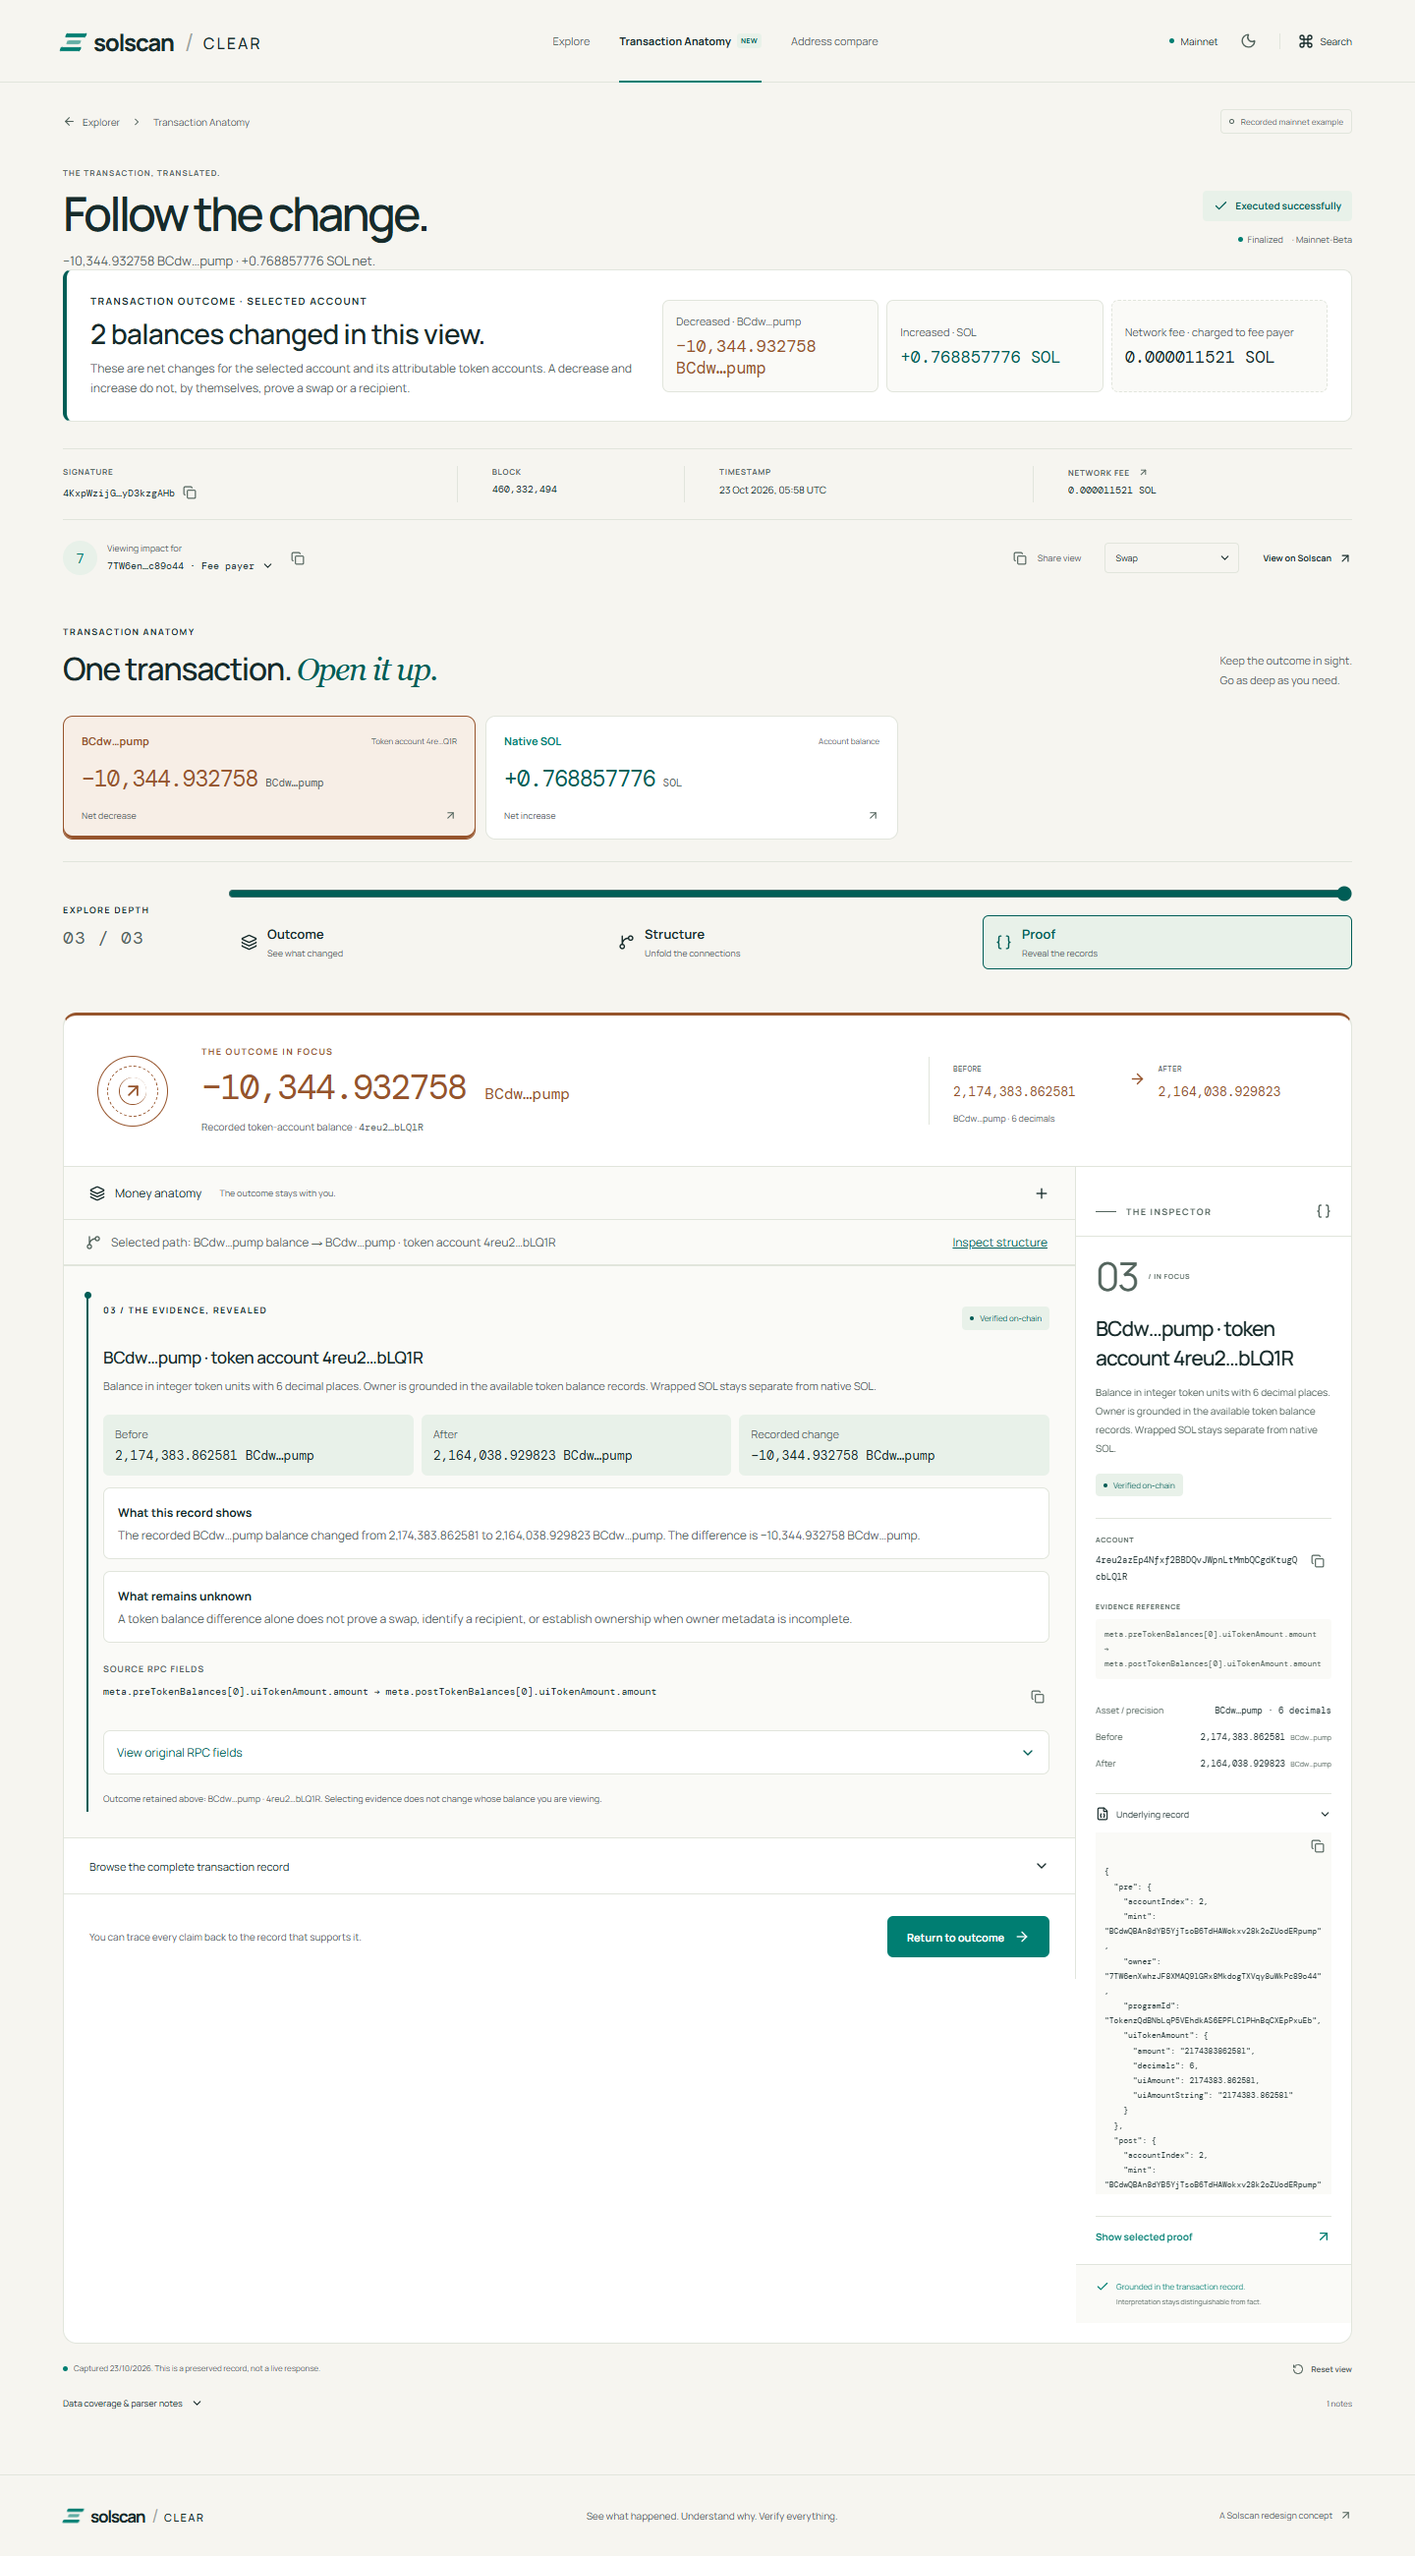
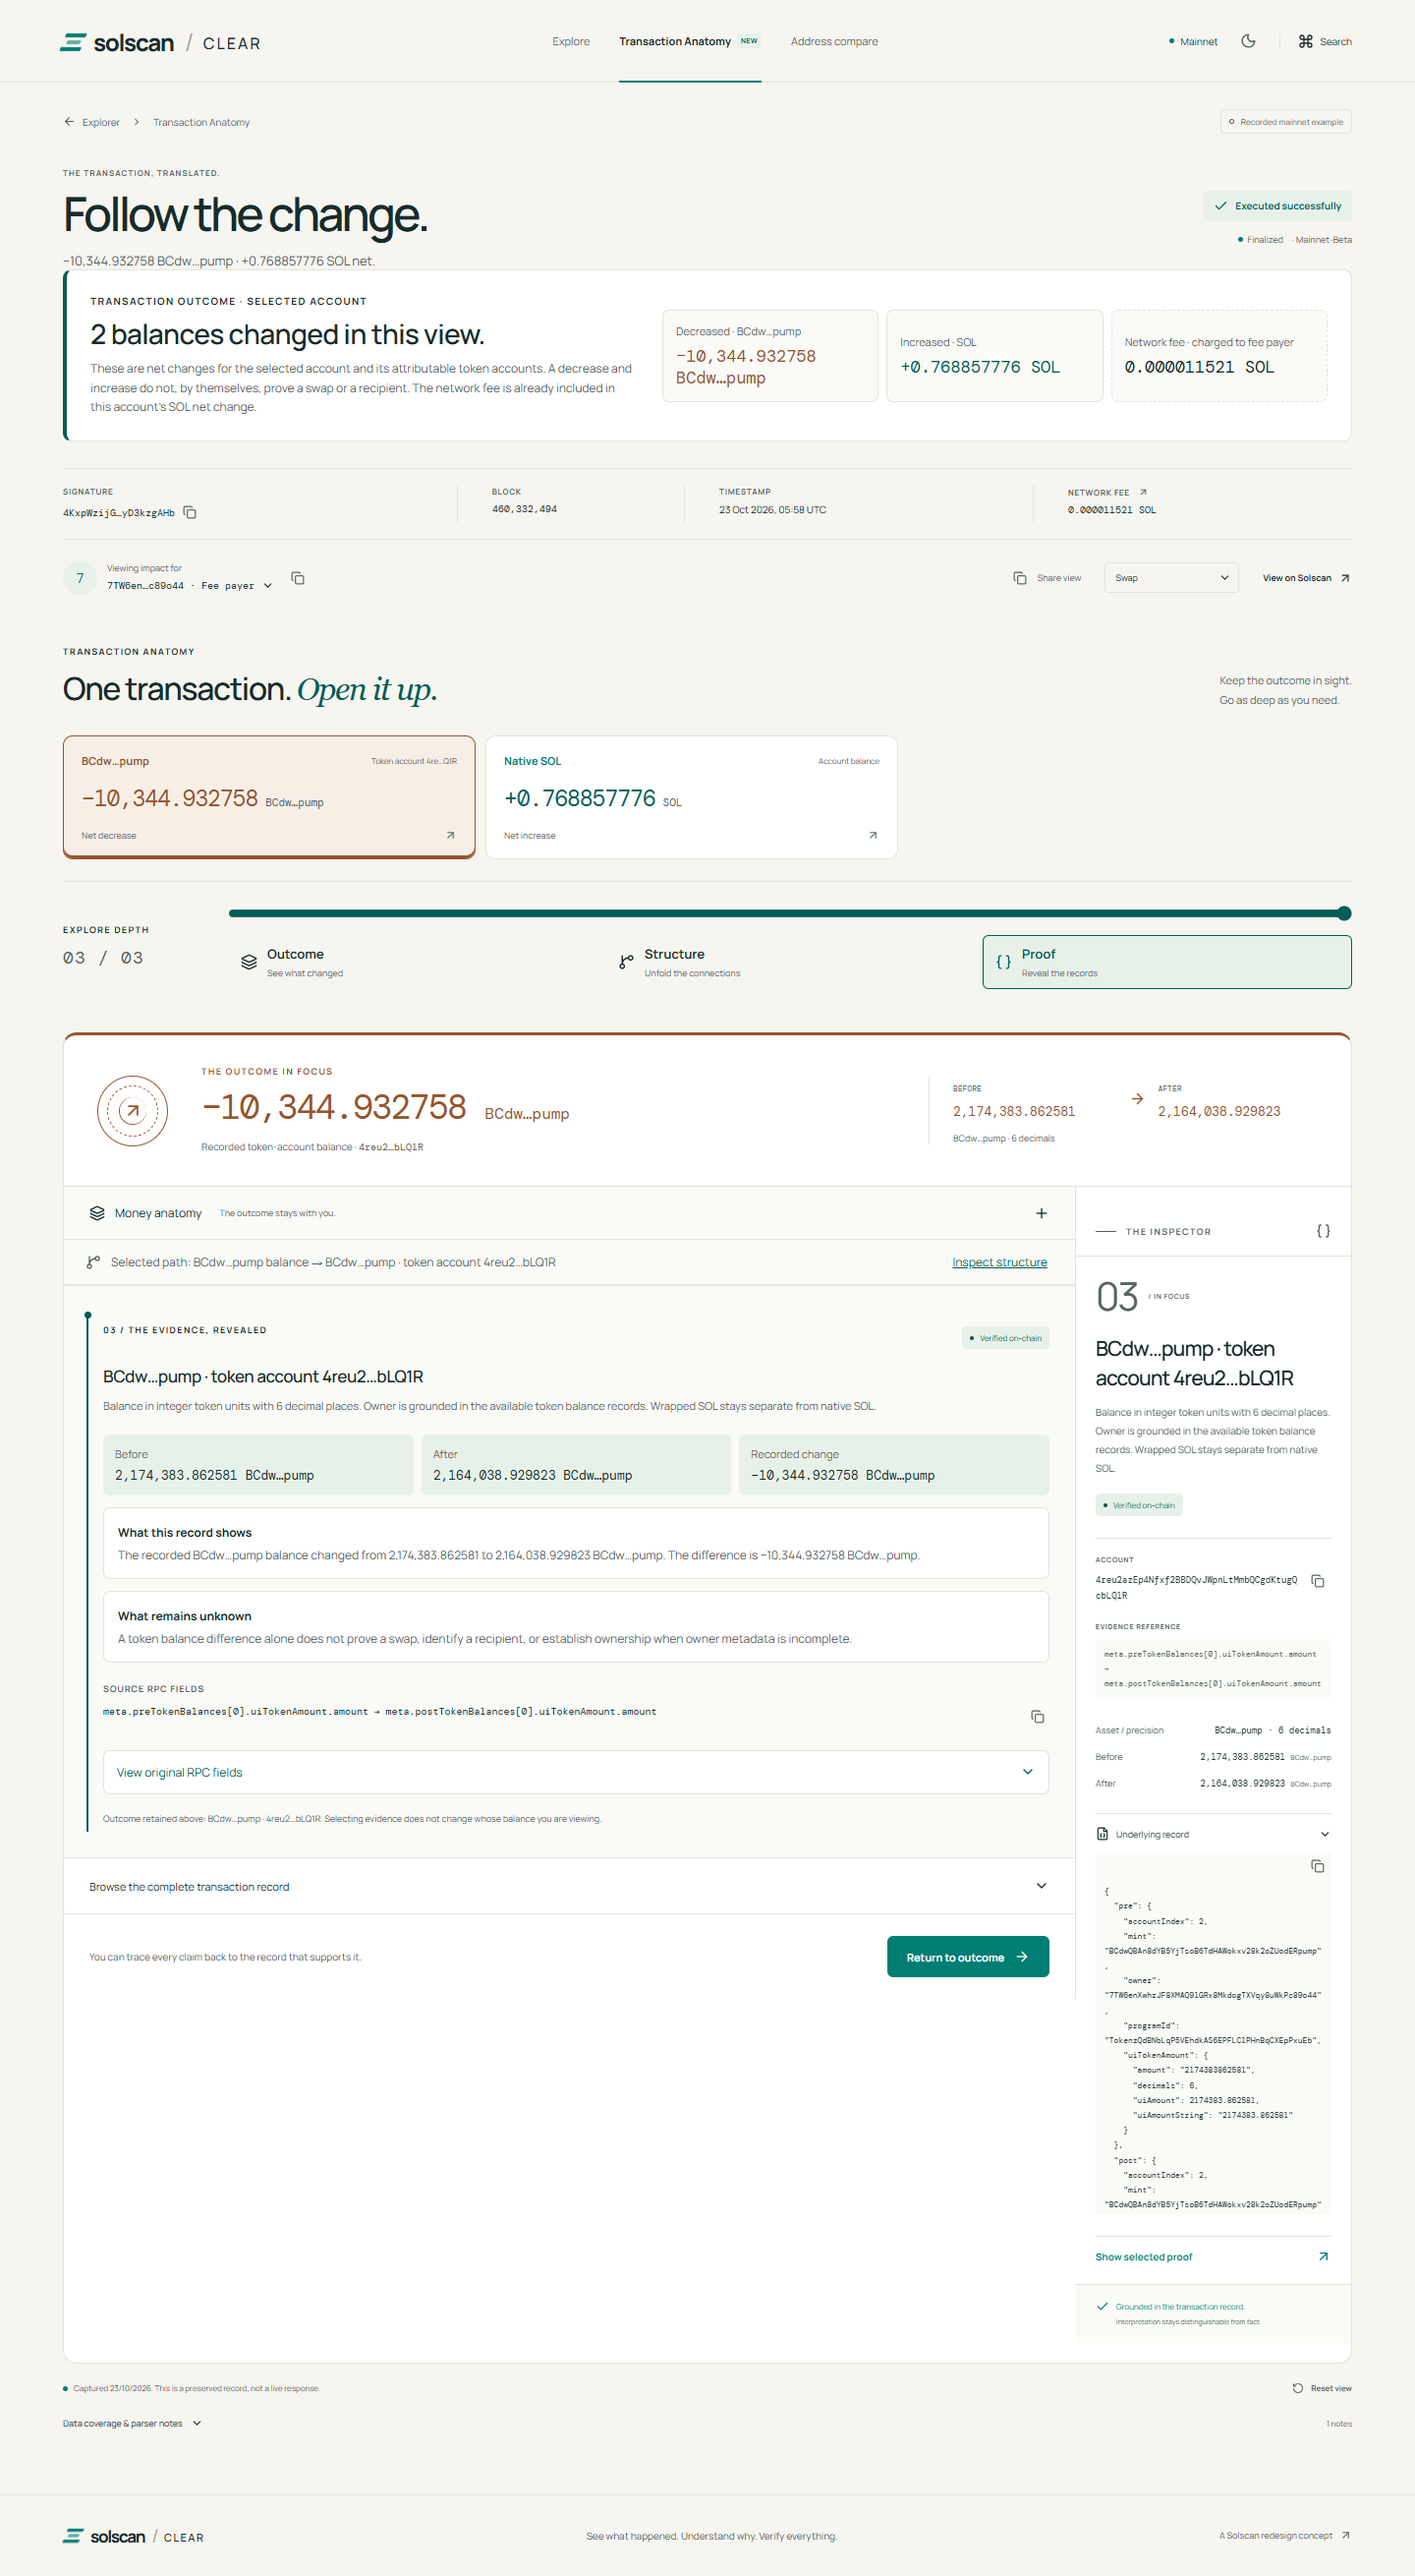
Keep full balance scale proportional and add mobile relationship paths

diff --git a/components/relationship-canvas.tsx b/components/relationship-canvas.tsx
@@ -370,6 +370,47 @@ export function RelationshipCanvas({
             </button>
           </div>
         </div>
+        <div
+          className="mobile-relationship-paths"
+          aria-label="Expandable relationship paths"
+        >
+          <p>Follow a recorded path</p>
+          {edges.length ? (
+            edges.map((edge) => (
+              <details key={edge.id}>
+                <summary>
+                  <span>
+                    {short(edge.from, 4)} → {short(edge.to, 4)}
+                  </span>
+                  <small>
+                    {edge.kind === "movement"
+                      ? "Asset movement"
+                      : edge.kind === "invocation"
+                        ? "Program invocation"
+                        : "Account reference"}
+                  </small>
+                </summary>
+                <p>
+                  {edge.label}
+                  {edge.attempted ? " · attempted, not committed" : ""}
+                </p>
+                <button
+                  className="text-link"
+                  onClick={() => onEvidence(edge.evidenceId)}
+                >
+                  Inspect supporting instruction <ArrowUpRight size={14} />
+                </button>
+              </details>
+            ))
+          ) : (
+            <p>
+              No supported{" "}
+              {mode === "money" ? "asset movements" : "relationships"} connect
+              these focused accounts. Try Full context or inspect the complete
+              records.
+            </p>
+          )}
+        </div>
         <div className="mobile-map-list">
           {visibleNodes.map((node, i) => (
             <button

diff --git a/app/ux-improvements.css b/app/ux-improvements.css
@@ -254,6 +254,12 @@
 .waterfall-scroll-cue {
   display: none;
 }
+.waterfall-bar {
+  min-height: 0;
+}
+.mobile-relationship-paths {
+  display: none;
+}
 .case-study-entry {
   margin: 28px 0;
   padding: 30px;
@@ -294,6 +300,42 @@
   color: var(--muted);
 }
 @media (max-width: 700px) {
+  .mobile-relationship-paths {
+    display: grid;
+    gap: 8px;
+    margin: 16px 0;
+  }
+  .mobile-relationship-paths > p {
+    color: var(--muted);
+    font-size: 14px;
+    line-height: 1.6;
+  }
+  .mobile-relationship-paths details {
+    border: 1px solid var(--line);
+    padding: 12px;
+    border-radius: 6px;
+  }
+  .mobile-relationship-paths summary {
+    cursor: pointer;
+    font-size: 14px;
+  }
+  .mobile-relationship-paths summary small {
+    display: block;
+    margin-top: 6px;
+    font-size: 12px;
+    color: var(--muted);
+  }
+  .mobile-relationship-paths details p {
+    font-size: 14px;
+    line-height: 1.6;
+  }
+  .mobile-relationship-paths button {
+    min-height: 44px;
+  }
+  .anatomy-structure .mobile-map-list {
+    max-height: 260px;
+    overflow-y: auto;
+  }
   .transaction-outcome-header {
     grid-template-columns: 1fr;
     gap: 15px;

diff --git a/tests/e2e/anatomy.spec.ts b/tests/e2e/anatomy.spec.ts
@@ -108,6 +108,18 @@ test("clicking a counterparty can change perspective and independently recompute
   page,
 }, info) => {
   await page.goto("/tx/demo-design-transfer?layer=connections");
+  if (info.project.name === "mobile") {
+    await page
+      .locator(".mobile-relationship-paths details summary")
+      .first()
+      .click();
+    await expect(
+      page
+        .locator(".mobile-relationship-paths")
+        .getByRole("button", { name: "Inspect supporting instruction" })
+        .first(),
+    ).toBeVisible();
+  }
   const nodes =
     info.project.name === "mobile" ? ".mobile-map-list" : ".graph-transform";
   await page
@@ -166,7 +178,7 @@ test("unknown balances remain explicit and tiny fees stay readable at narrow wid
   await expect(fee).toContainText("−0.000005");
   expect(
     (await fee.locator(".waterfall-bar").boundingBox())!.height,
-  ).toBeGreaterThanOrEqual(3);
+  ).toBeLessThan(3);
   expect(
     await page.evaluate(
       () => document.documentElement.scrollWidth <= innerWidth,

diff --git a/components/impact-canvas.tsx b/components/impact-canvas.tsx
@@ -289,7 +289,7 @@ export function ImpactCanvas({
       <div className="money-footnote">
         <p>
           {scale === "balance"
-            ? "Full balances share one proportional scale. Small changes use a labeled minimum marker."
+            ? "Full balances share one proportional scale. Tiny components may be subpixel; exact values remain in the ledger."
             : "Every component retains its exact recorded or parsed amount; unclassified residuals remain visible."}
         </p>
         <button

diff --git a/components/transaction-workspace.tsx b/components/transaction-workspace.tsx
@@ -282,6 +282,8 @@ export function TransactionWorkspace({ signature }: { signature: string }) {
             These are net changes for the selected account and its attributable
             token accounts. A decrease and increase do not, by themselves, prove
             a swap or a recipient.
+            {perspective === tx.feePayer &&
+              " The network fee is already included in this account’s SOL net change."}
           </p>
         </div>
         <div className="outcome-header-effects">
